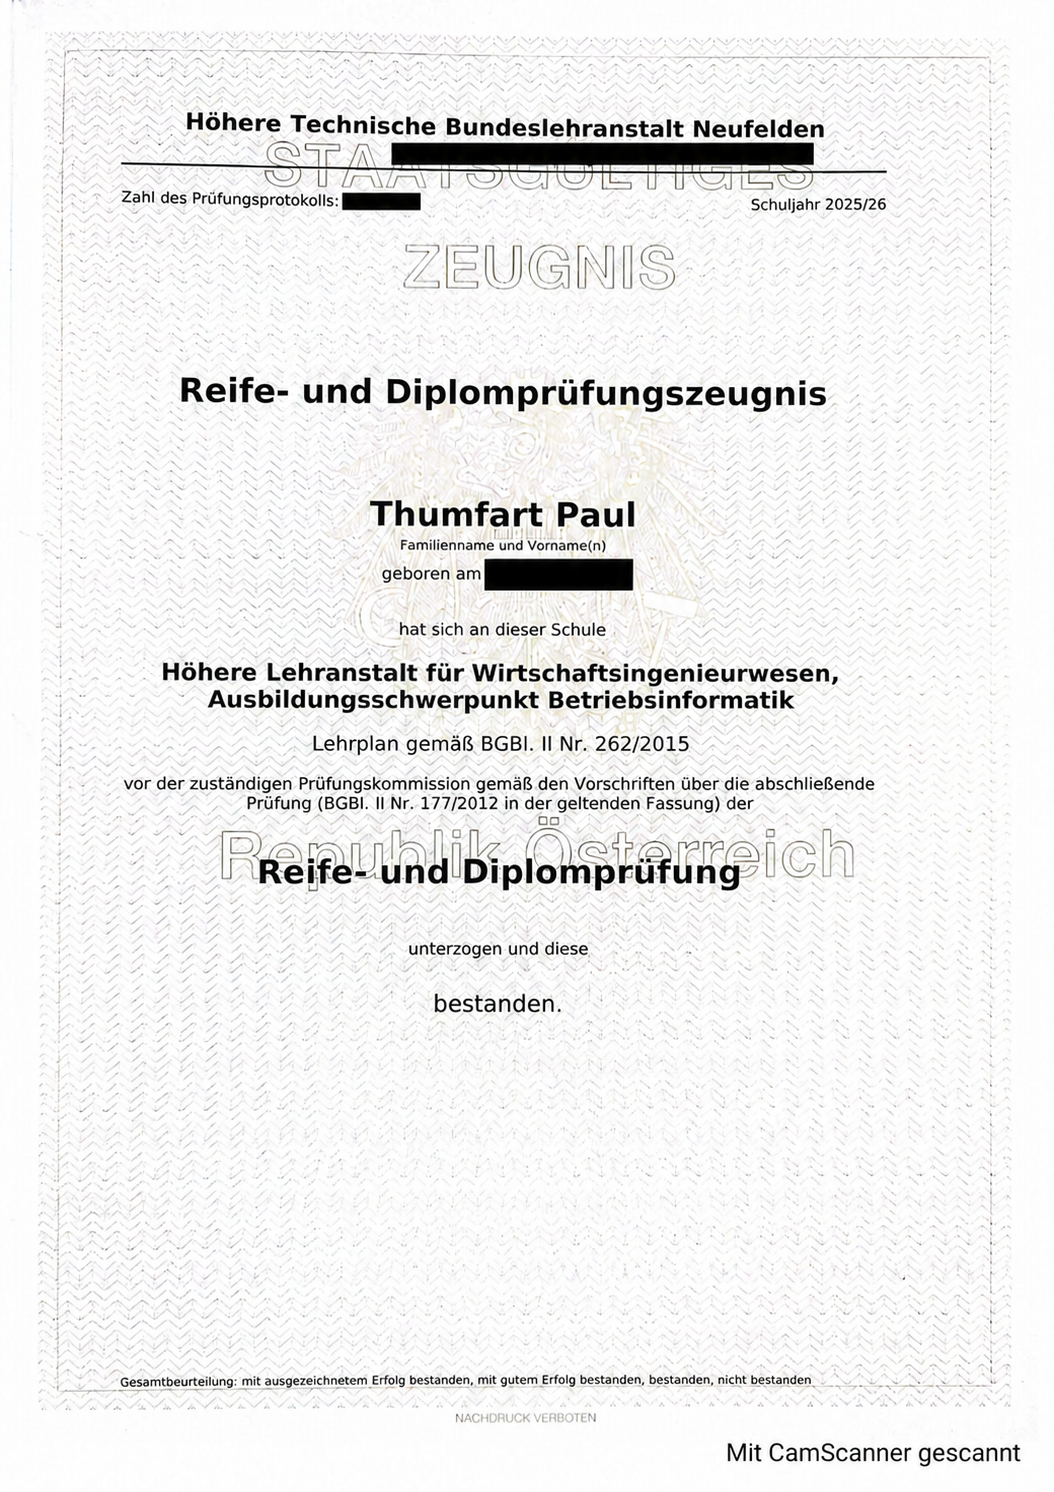
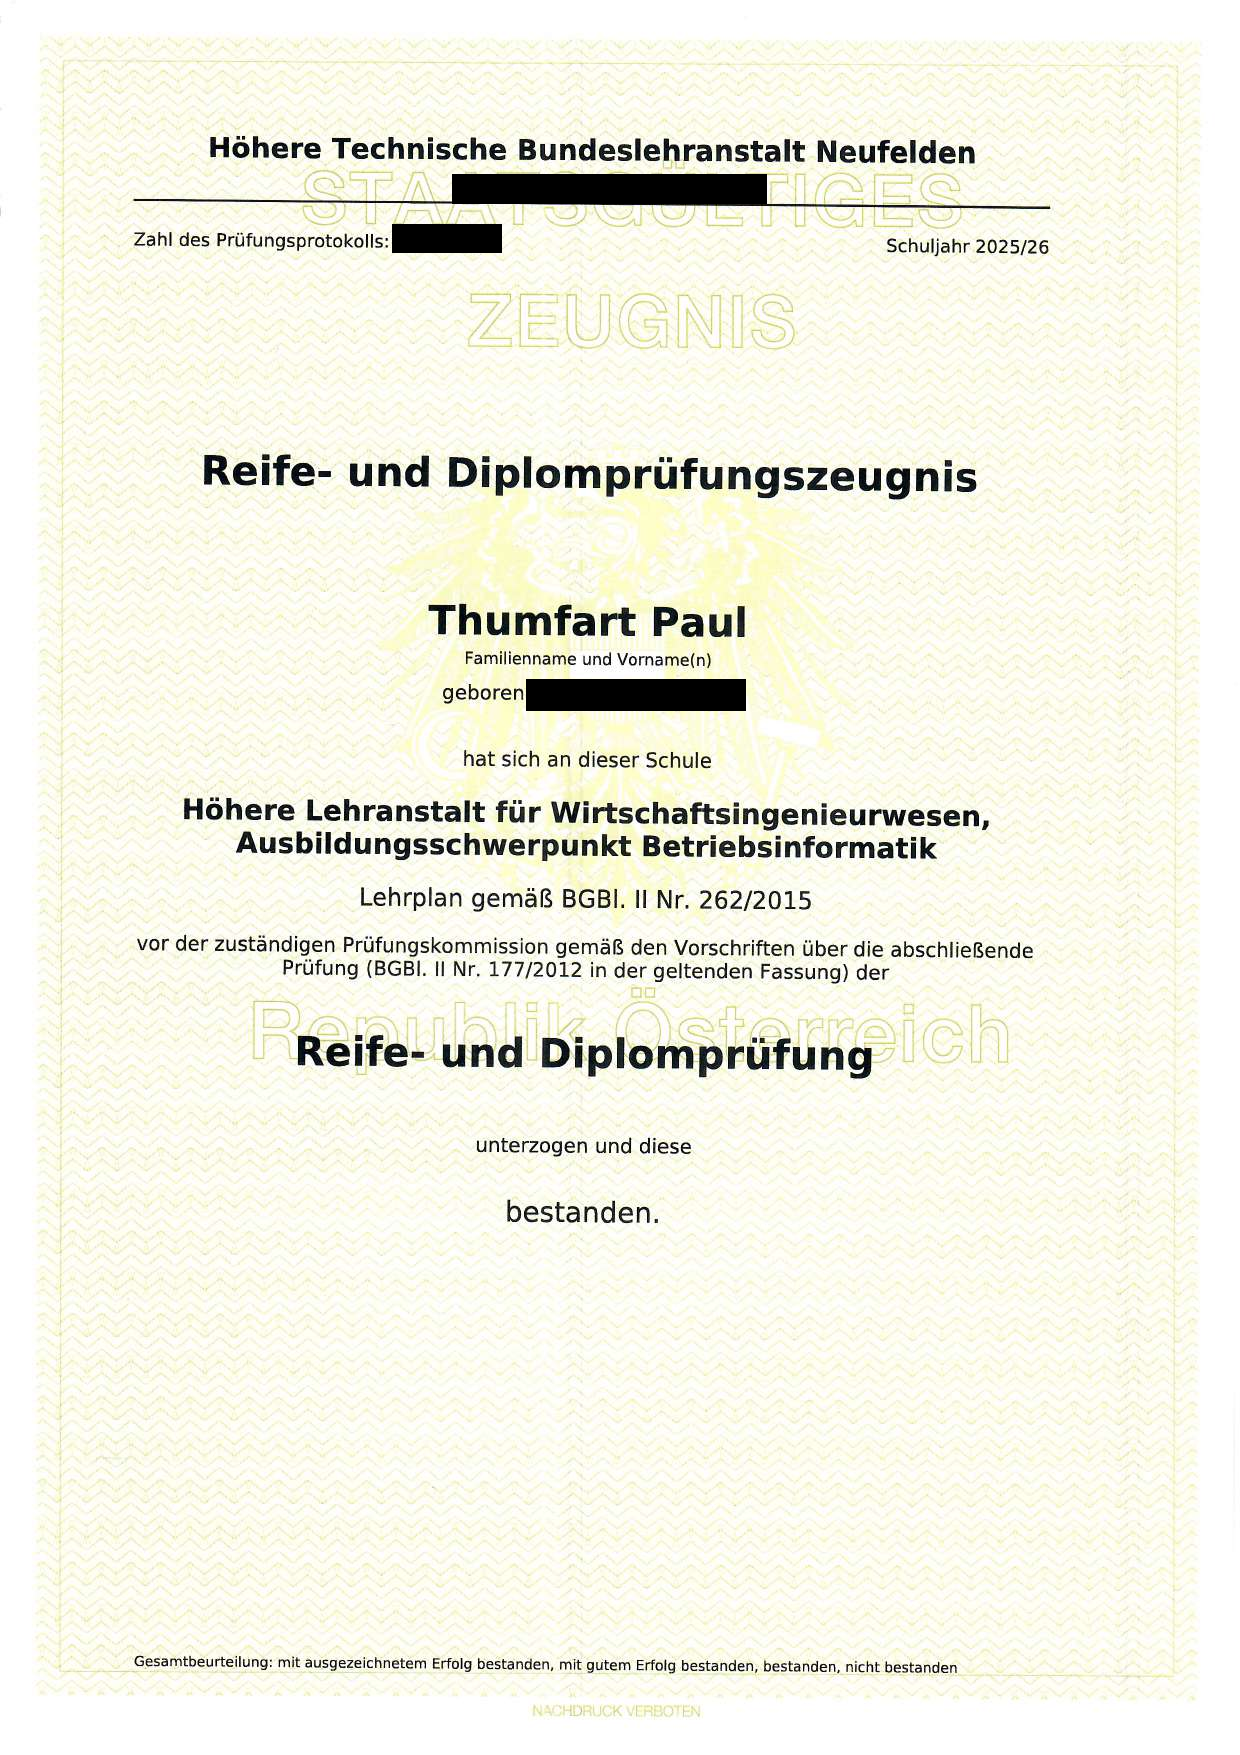
About: Add certificate download and full diploma certificate support

Changed region(s): [[0.0304, 0.0, 0.9715, 0.9866], [0.334, 0.7091, 0.3947, 0.7399]]

diff --git a/src/views/AboutView.vue b/src/views/AboutView.vue
@@ -1,6 +1,7 @@
 <script setup lang="ts">
 import { ref } from "vue";
 import {
+  PhDownloadSimple,
   PhEnvelopeSimple,
   PhGithubLogo,
   PhLinkedinLogo,
@@ -10,20 +11,58 @@ import {
 
 interface Credential {
   title: string;
-  src: string;
-  alt: string;
+  pages: {
+    src: string;
+    alt: string;
+    label: string;
+  }[];
 }
 
 const credentials: Credential[] = [
   {
     title: "Matura & Diploma",
-    src: "/assets/diploma-redacted.png",
-    alt: "Redacted preview of Paul Thumfart's Matura and diploma certificate",
+    pages: [
+      {
+        src: "/assets/diploma-redacted.png",
+        alt: "Redacted first page of Paul Thumfart's Matura and diploma certificate",
+        label: "Certificate",
+      },
+      {
+        src: "/assets/diploma-redacted-page-2.png",
+        alt: "Redacted examination results from Paul Thumfart's Matura and diploma certificate",
+        label: "Examination results",
+      },
+      {
+        src: "/assets/diploma-redacted-page-3.png",
+        alt: "Curriculum and hours table from Paul Thumfart's Matura and diploma certificate",
+        label: "Curriculum",
+      },
+    ],
   },
   {
     title: "School report 2025/26",
-    src: "/assets/school-report-redacted.png",
-    alt: "Redacted preview of Paul Thumfart's 2025/26 school report",
+    pages: [
+      {
+        src: "/assets/school-report-redacted.png",
+        alt: "Redacted preview of Paul Thumfart's final 2025/26 school report",
+        label: "Final annual report",
+      },
+    ],
+  },
+];
+
+const supportingDocuments = [
+  {
+    title: "Certificate supplement",
+    detail: "English · PDF · 2 pages",
+    href: "/documents/certificate-supplement.pdf",
+    filename: "Paul-Thumfart-Certificate-Supplement.pdf",
+  },
+  {
+    title: "Diploma certificate explanation",
+    detail: "German · PDF · 2 pages",
+    href: "/documents/diploma-certificate-explanation-de.pdf",
+    filename: "Paul-Thumfart-Zeugniserlaeuterung.pdf",
   },
 ];
 
@@ -109,9 +148,25 @@ const openCredential = (credential: Credential) => {
         @click="openCredential(credential)"
       >
         <span>{{ credential.title }}</span>
-        <img :src="credential.src" :alt="credential.alt" />
+        <img :src="credential.pages[0].src" :alt="credential.pages[0].alt" />
       </button>
       <p><PhLockKey :size="20" aria-hidden="true" />Public previews redact personal identifiers.</p>
+
+      <section class="credential-downloads" aria-labelledby="credential-downloads-title">
+        <h3 id="credential-downloads-title">Supporting documents</h3>
+        <a
+          v-for="document in supportingDocuments"
+          :key="document.href"
+          :href="document.href"
+          :download="document.filename"
+        >
+          <span>
+            <strong>{{ document.title }}</strong>
+            <small>{{ document.detail }}</small>
+          </span>
+          <PhDownloadSimple :size="22" aria-hidden="true" />
+        </a>
+      </section>
     </aside>
 
     <dialog ref="dialog" class="credential-dialog" @click.self="dialog?.close()">
@@ -119,7 +174,12 @@ const openCredential = (credential: Credential) => {
         <PhX :size="24" aria-hidden="true" />
       </button>
       <h2>{{ activeCredential.title }}</h2>
-      <img :src="activeCredential.src" :alt="activeCredential.alt" />
+      <div class="credential-dialog__pages">
+        <figure v-for="(page, index) in activeCredential.pages" :key="page.src">
+          <figcaption>{{ index + 1 }} / {{ activeCredential.pages.length }} · {{ page.label }}</figcaption>
+          <img :src="page.src" :alt="page.alt" />
+        </figure>
+      </div>
     </dialog>
   </main>
 </template>

diff --git a/src/styles.css b/src/styles.css
@@ -554,7 +554,9 @@ a {
 
 .projects-page {
   position: relative;
+  display: grid;
   min-height: 1024px;
+  grid-template-columns: 31% 69%;
   overflow: hidden;
   background: var(--paper);
 }
@@ -563,7 +565,7 @@ a {
   position: relative;
   z-index: 2;
   display: flex;
-  width: 31%;
+  width: auto;
   min-height: 1024px;
   flex-direction: column;
   justify-content: center;
@@ -648,11 +650,10 @@ a {
 }
 
 .project-detail {
-  position: absolute;
+  position: relative;
   z-index: 3;
-  top: 180px;
-  right: 5.5%;
-  width: 58%;
+  width: auto;
+  padding: 180px 5.5vw 70px;
 }
 
 .project-status {
@@ -680,6 +681,11 @@ a {
   font-family: var(--mono);
   font-size: 17px;
   line-height: 1.5;
+}
+
+.project-detail__repository {
+  display: flex;
+  margin-top: 18px;
 }
 
 .project-screenshot {
@@ -1183,6 +1189,69 @@ a {
   flex: 0 0 auto;
 }
 
+.credential-downloads {
+  margin-top: 32px;
+  border-top: 1px solid rgba(7, 16, 21, 0.24);
+  padding-top: 26px;
+}
+
+.credential-downloads h3 {
+  margin: 0 0 14px;
+  font-family: var(--mono);
+  font-size: 12px;
+  font-weight: 650;
+  letter-spacing: 0.08em;
+  text-transform: uppercase;
+}
+
+.credential-downloads a {
+  display: flex;
+  min-height: 68px;
+  align-items: center;
+  justify-content: space-between;
+  gap: 18px;
+  border: 1px solid rgba(7, 16, 21, 0.35);
+  padding: 14px 16px;
+  margin-top: 10px;
+  color: var(--ink);
+  text-decoration: none;
+  transition:
+    background 160ms ease,
+    border-color 160ms ease,
+    transform 160ms ease;
+}
+
+.credential-downloads a:hover {
+  border-color: var(--ink);
+  background: rgba(255, 255, 255, 0.48);
+  transform: translateY(-2px);
+}
+
+.credential-downloads a:focus-visible {
+  outline: 2px solid var(--ink);
+  outline-offset: 3px;
+}
+
+.credential-downloads a span {
+  display: grid;
+  gap: 5px;
+}
+
+.credential-downloads strong {
+  font-size: 14px;
+  font-weight: 620;
+}
+
+.credential-downloads small {
+  color: var(--cyan-dark);
+  font-family: var(--mono);
+  font-size: 10px;
+}
+
+.credential-downloads a > svg {
+  flex: 0 0 auto;
+}
+
 .credential-dialog {
   width: min(720px, calc(100vw - 40px));
   max-height: 88vh;
@@ -1200,12 +1269,26 @@ a {
   margin: 0 50px 20px 0;
 }
 
-.credential-dialog > img {
+.credential-dialog__pages {
+  display: grid;
+  gap: 28px;
+}
+
+.credential-dialog__pages figure {
+  margin: 0;
+}
+
+.credential-dialog__pages figcaption {
+  margin-bottom: 9px;
+  color: var(--cyan-dark);
+  font-family: var(--mono);
+  font-size: 11px;
+}
+
+.credential-dialog__pages img {
   display: block;
-  width: auto;
-  max-width: 100%;
-  max-height: 74vh;
-  margin: 0 auto;
+  width: 100%;
+  border: 1px solid rgba(7, 16, 21, 0.2);
   object-fit: contain;
 }
 
@@ -1269,8 +1352,8 @@ a {
   }
 
   .project-detail {
-    right: 3%;
-    width: 62%;
+    padding-right: 3vw;
+    padding-left: 4vw;
   }
 
   .goals-copy {
@@ -1386,6 +1469,10 @@ a {
   .about-page {
     min-height: 100vh;
     overflow: visible;
+  }
+
+  .projects-page {
+    display: block;
   }
 
   .home-hero {
@@ -1573,7 +1660,8 @@ a {
   }
 
   .home-actions .action-link,
-  .project-detail__actions .action-link {
+  .project-detail__actions .action-link,
+  .project-detail__repository .action-link {
     width: 100%;
   }
 
